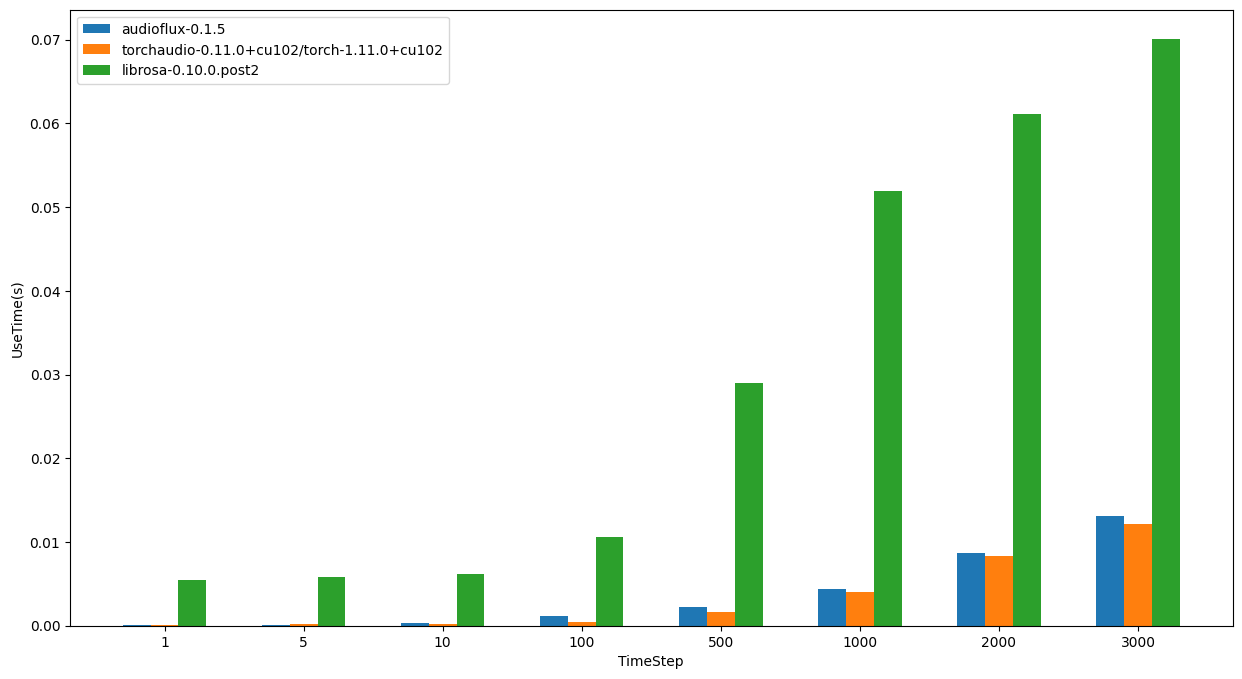
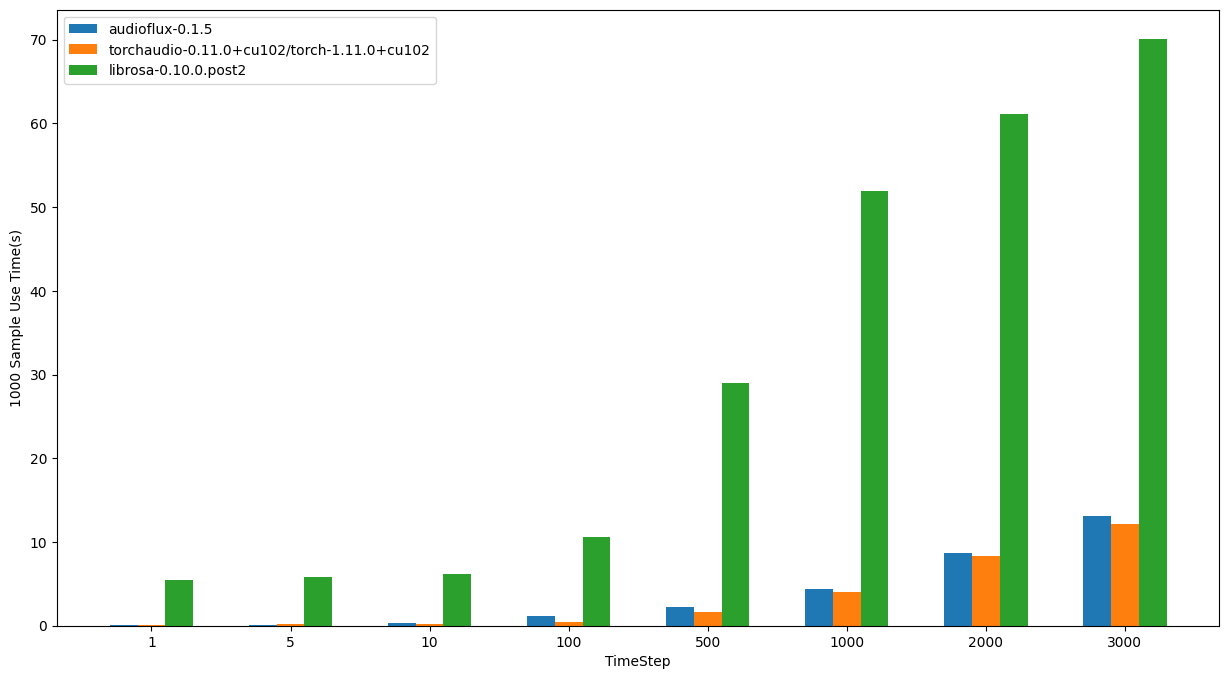
update doc

diff --git a/docs/benchmark.rst b/docs/benchmark.rst
@@ -1,9 +1,14 @@
 Benchmark
 =========
 
+Base benchmark
+--------------
+
+The time required to calculate the mel-spectrogram for 1000 samples according to a TimeStep of 1/5/10/100/500/1000/2000/3000.
+Where fft_len=2048, slide_len=512, sampling_rate=32000.
 
 Linux - AMD
------------
+^^^^^^^^^^^
 
     - OS: Ubuntu 20.04.4 LTS
     - CPU: AMD Ryzen Threadripper 3970X 32-Core Processor
@@ -13,26 +18,26 @@ Linux - AMD
 +----------+-------------+-------------+-------------+
 | TimeStep | audioflux   | torchaudio  | librosa     |
 +==========+=============+=============+=============+
-| 1        | 0.00004294s | 0.00007707s | 0.00241958s |
+| 1        | 0.04294s    | 0.07707s    | 2.41958s    |
 +----------+-------------+-------------+-------------+
-| 5        | 0.00014878s | 0.00105589s | 0.00352610s |
+| 5        | 0.14878s    | 1.05589s    | 3.52610s    |
 +----------+-------------+-------------+-------------+
-| 10       | 0.00018374s | 0.00083975s | 0.00346499s |
+| 10       | 0.18374s    | 0.83975s    | 3.46499s    |
 +----------+-------------+-------------+-------------+
-| 100      | 0.00067030s | 0.00061876s | 0.00663217s |
+| 100      | 0.67030s    | 0.61876s    | 6.63217s    |
 +----------+-------------+-------------+-------------+
-| 500      | 0.00094893s | 0.00129189s | 0.01645968s |
+| 500      | 0.94893s    | 1.29189s    | 16.45968s   |
 +----------+-------------+-------------+-------------+
-| 1000     | 0.00143854s | 0.00223126s | 0.02778358s |
+| 1000     | 1.43854s    | 2.23126s    | 27.78358s   |
 +----------+-------------+-------------+-------------+
-| 2000     | 0.00308714s | 0.00410869s | 0.04512714s |
+| 2000     | 3.08714s    | 4.10869s    | 45.12714s   |
 +----------+-------------+-------------+-------------+
-| 3000     | 0.00490343s | 0.00586299s | 0.05162876s |
+| 3000     | 4.90343s    | 5.86299s    | 51.62876s   |
 +----------+-------------+-------------+-------------+
 
 
 Linux - Intel
--------------
+^^^^^^^^^^^^^
 
     - OS: Ubuntu 20.04.4 LTS
     - CPU: Intel(R) Core(TM) i7-6850K CPU @ 3.60GHz
@@ -42,26 +47,26 @@ Linux - Intel
 +----------+-------------+-------------+-------------+
 | TimeStep | audioflux   | torchaudio  | librosa     |
 +==========+=============+=============+=============+
-| 1        | 0.00008106s | 0.00011043s | 0.00551295s |
+| 1        | 0.08106s    | 0.11043s    | 5.51295s    |
 +----------+-------------+-------------+-------------+
-| 5        | 0.00011654s | 0.00016005s | 0.00577631s |
+| 5        | 0.11654s    | 0.16005s    | 5.77631s    |
 +----------+-------------+-------------+-------------+
-| 10       | 0.00029173s | 0.00015352s | 0.00613656s |
+| 10       | 0.29173s    | 0.15352s    | 6.13656s    |
 +----------+-------------+-------------+-------------+
-| 100      | 0.00118150s | 0.00039958s | 0.01061641s |
+| 100      | 1.18150s    | 0.39958s    | 10.61641s   |
 +----------+-------------+-------------+-------------+
-| 500      | 0.00223883s | 0.00158323s | 0.02899823s |
+| 500      | 2.23883s    | 1.58323s    | 28.99823s   |
 +----------+-------------+-------------+-------------+
-| 1000     | 0.00442723s | 0.00398896s | 0.05197518s |
+| 1000     | 4.42723s    | 3.98896s    | 51.97518s   |
 +----------+-------------+-------------+-------------+
-| 2000     | 0.00873121s | 0.00828444s | 0.06113923s |
+| 2000     | 8.73121s    | 8.28444s    | 61.13923s   |
 +----------+-------------+-------------+-------------+
-| 3000     | 0.01307378s | 0.01214323s | 0.07006395s |
+| 3000     | 13.07378s   | 12.14323s   | 70.06395s   |
 +----------+-------------+-------------+-------------+
 
 
 macOS - Intel
------------
+^^^^^^^^^^^^^
 
     - OS: 12.6.1 (21G217)
     - CPU: 3.8GHz 8‑core 10th-generation Intel Core i7, Turbo Boost up to 5.0GHz
@@ -71,26 +76,26 @@ macOS - Intel
 +----------+-------------+-------------+-------------+
 | TimeStep | audioflux   | torchaudio  | librosa     |
 +==========+=============+=============+=============+
-| 1        | 0.00007605s | 0.00006451s | 0.00170139s |
+| 1        | 0.07605s    | 0.06451s    | 1.70139s    |
 +----------+-------------+-------------+-------------+
-| 5        | 0.00014946s | 0.00008464s | 0.00186964s |
+| 5        | 0.14946s    | 0.08464s    | 1.86964s    |
 +----------+-------------+-------------+-------------+
-| 10       | 0.00016641s | 0.00010762s | 0.00200865s |
+| 10       | 0.16641s    | 0.10762s    | 2.00865s    |
 +----------+-------------+-------------+-------------+
-| 100      | 0.00046902s | 0.00083551s | 0.00328890s |
+| 100      | 0.46902s    | 0.83551s    | 3.28890s    |
 +----------+-------------+-------------+-------------+
-| 500      | 0.00108860s | 0.00505824s | 0.00898265s |
+| 500      | 1.08860s    | 5.05824s    | 8.98265s    |
 +----------+-------------+-------------+-------------+
-| 1000     | 0.00264029s | 0.00978269s | 0.01824391s |
+| 1000     | 2.64029s    | 9.78269s    | 18.24391s   |
 +----------+-------------+-------------+-------------+
-| 2000     | 0.00540025s | 0.01508991s | 0.03368184s |
+| 2000     | 5.40025s    | 15.08991s   | 33.68184s   |
 +----------+-------------+-------------+-------------+
-| 3000     | 0.00792596s | 0.02484823s | 0.04735941s |
+| 3000     | 7.92596s    | 24.84823s   | 47.35941s   |
 +----------+-------------+-------------+-------------+
 
 
 macOS - M1
-----------
+^^^^^^^^^^
 
     - OS: 12.4 (21F79)
     - CPU: Apple M1
@@ -100,30 +105,27 @@ macOS - M1
 +----------+-------------+-------------+-------------+
 | TimeStep | audioflux   | torchaudio  | librosa     |
 +==========+=============+=============+=============+
-| 1        | 0.00006110s | 0.00006874s | 0.00222518s |
+| 1        | 0.06110s    | 0.06874s    | 2.22518s    |
 +----------+-------------+-------------+-------------+
-| 5        | 0.00023444s | 0.00007922s | 0.00255907s |
+| 5        | 0.23444s    | 0.07922s    | 2.55907s    |
 +----------+-------------+-------------+-------------+
-| 10       | 0.00020691s | 0.00011090s | 0.00271813s |
+| 10       | 0.20691s    | 0.11090s    | 2.71813s    |
 +----------+-------------+-------------+-------------+
-| 100      | 0.00068694s | 0.00063625s | 0.00474433s |
+| 100      | 0.68694s    | 0.63625s    | 4.74433s    |
 +----------+-------------+-------------+-------------+
-| 500      | 0.00147420s | 0.00337597s | 0.01383887s |
+| 500      | 1.47420s    | 3.37597s    | 13.83887s   |
 +----------+-------------+-------------+-------------+
-| 1000     | 0.00300926s | 0.00676275s | 0.02524646s |
+| 1000     | 3.00926s    | 6.76275s    | 25.24646s   |
 +----------+-------------+-------------+-------------+
-| 2000     | 0.00599781s | 0.01269573s | 0.04784029s |
+| 2000     | 5.99781s    | 12.69573s   | 47.84029s   |
 +----------+-------------+-------------+-------------+
-| 3000     | 0.00876306s | 0.01903391s | 0.06940428s |
+| 3000     | 8.76306s    | 19.03391s   | 69.40428s   |
 +----------+-------------+-------------+-------------+
-
-Based on the TimeStep of 1/5/10/100/500/1000/2000/3000 to calculate the time required for a Mel spectrogram.
-Where fft_len=2048, slide_len=512.
 
 
 Benchmark Script
-----------------
-[https://github.com/libAudioFlux/audioFlux/tree/master/benchmark](https://github.com/libAudioFlux/audioFlux/tree/master/benchmark)
+^^^^^^^^^^^^^^^^
+`https://github.com/libAudioFlux/audioFlux/tree/master/benchmark <https://github.com/libAudioFlux/audioFlux/tree/master/benchmark>`_
 
 Other Test
 ----------

diff --git a/docs/benchmark/performance_more.md b/docs/benchmark/performance_more.md
@@ -1,41 +1,45 @@
 ## More detailed performance testing
 
+### Base benchmark
+
+The time required to calculate the mel-spectrogram for 1000 samples according to a TimeStep of 1/5/10/100/500/1000/2000/3000.
+Where fft_len=2048, slide_len=512, sampling_rate=32000.
+
 #### Linux - AMD
 
 	- OS: Ubuntu 20.04.4 LTS
 	- CPU: AMD Ryzen Threadripper 3970X 32-Core Processor
-  
+
 <img src='../image/benchmark/linux_amd_1.png'>
 
-| TimeStep | audioflux   | torchaudio  | librosa     | 
-| -------- |  --------   |  ---------  |  ------     |
-| 1        | 0.00004294s | 0.00007707s | 0.00241958s |
-| 5        | 0.00014878s | 0.00105589s | 0.00352610s |
-| 10       | 0.00018374s | 0.00083975s | 0.00346499s |
-| 100      | 0.00067030s | 0.00061876s | 0.00663217s |
-| 500      | 0.00094893s | 0.00129189s | 0.01645968s |
-| 1000     | 0.00143854s | 0.00223126s | 0.02778358s |
-| 2000     | 0.00308714s | 0.00410869s | 0.04512714s |
-| 3000     | 0.00490343s | 0.00586299s | 0.05162876s |
+| TimeStep | audioflux | torchaudio | librosa   | 
+| -------- |  -------- |  --------- |  ------   |
+| 1        | 0.04294s  | 0.07707s   | 2.41958s  |
+| 5        | 0.14878s  | 1.05589s   | 3.52610s  |
+| 10       | 0.18374s  | 0.83975s   | 3.46499s  |
+| 100      | 0.67030s  | 0.61876s   | 6.63217s  |
+| 500      | 0.94893s  | 1.29189s   | 16.45968s |
+| 1000     | 1.43854s  | 2.23126s   | 27.78358s |
+| 2000     | 3.08714s  | 4.10869s   | 45.12714s |
+| 3000     | 4.90343s  | 5.86299s   | 51.62876s |
 
 #### Linux - Intel
 
 	- OS: Ubuntu 20.04.4 LTS
 	- CPU: Intel(R) Core(TM) i7-6850K CPU @ 3.60GHz
-      
-<img src='../image/benchmark/linux_intel_1.png'>
-   
-| TimeStep | audioflux   | torchaudio  | librosa     | 
-| -------- |  --------   |  ---------  |  ------     |
-| 1        | 0.00008106s | 0.00011043s | 0.00551295s |
-| 5        | 0.00011654s | 0.00016005s | 0.00577631s |
-| 10       | 0.00029173s | 0.00015352s | 0.00613656s |
-| 100      | 0.00118150s | 0.00039958s | 0.01061641s |
-| 500      | 0.00223883s | 0.00158323s | 0.02899823s |
-| 1000     | 0.00442723s | 0.00398896s | 0.05197518s |
-| 2000     | 0.00873121s | 0.00828444s | 0.06113923s |
-| 3000     | 0.01307378s | 0.01214323s | 0.07006395s |
 
+<img src='../image/benchmark/linux_intel_1.png'>
+
+| TimeStep | audioflux   | torchaudio | librosa   | 
+| -------- |  --------   | ---------- | -------   |
+| 1        | 0.08106s    | 0.11043s   | 5.51295s  |
+| 5        | 0.11654s    | 0.16005s   | 5.77631s  |
+| 10       | 0.29173s    | 0.15352s   | 6.13656s  |
+| 100      | 1.18150s    | 0.39958s   | 10.61641s |
+| 500      | 2.23883s    | 1.58323s   | 28.99823s |
+| 1000     | 4.42723s    | 3.98896s   | 51.97518s |
+| 2000     | 8.73121s    | 8.28444s   | 61.13923s |
+| 3000     | 13.07378s   | 12.14323s  | 70.06395s |
 
 #### macOS - Intel
 
@@ -43,44 +47,42 @@
 	- CPU: 3.8GHz 8‑core 10th-generation Intel Core i7, Turbo Boost up to 5.0GHz
 
 <img src='../image/benchmark/mac_x86_1.png'>
-        
-| TimeStep | audioflux   | torchaudio  | librosa     | 
-| -------- |  --------   |  ---------  |  ------     |
-| 1        | 0.00007605s | 0.00006451s | 0.00170139s |
-| 5        | 0.00014946s | 0.00008464s | 0.00186964s |
-| 10       | 0.00016641s | 0.00010762s | 0.00200865s |
-| 100      | 0.00046902s | 0.00083551s | 0.00328890s |
-| 500      | 0.00108860s | 0.00505824s | 0.00898265s |
-| 1000     | 0.00264029s | 0.00978269s | 0.01824391s |
-| 2000     | 0.00540025s | 0.01508991s | 0.03368184s |
-| 3000     | 0.00792596s | 0.02484823s | 0.04735941s |
+
+| TimeStep | audioflux | torchaudio | librosa   | 
+| -------- |  -------- |  --------- |  ------   |
+| 1        | 0.07605s  | 0.06451s   | 1.70139s  |
+| 5        | 0.14946s  | 0.08464s   | 1.86964s  |
+| 10       | 0.16641s  | 0.10762s   | 2.00865s  |
+| 100      | 0.46902s  | 0.83551s   | 3.28890s  |
+| 500      | 1.08860s  | 5.05824s   | 8.98265s  |
+| 1000     | 2.64029s  | 9.78269s   | 18.24391s |
+| 2000     | 5.40025s  | 15.08991s  | 33.68184s |
+| 3000     | 7.92596s  | 24.84823s  | 47.35941s |
 
 #### macOS - M1
-	
+
 	- OS: 12.4 (21F79)
 	- CPU: Apple M1
-    
+
 <img src='../image/benchmark/mac_arm_1.png'>
-        
-| TimeStep | audioflux   | torchaudio  | librosa     | 
-| -------- |  --------   |  ---------  |  ------     |
-| 1        | 0.00006110s | 0.00006874s | 0.00222518s |
-| 5        | 0.00023444s | 0.00007922s | 0.00255907s |
-| 10       | 0.00020691s | 0.00011090s | 0.00271813s |
-| 100      | 0.00068694s | 0.00063625s | 0.00474433s |
-| 500      | 0.00147420s | 0.00337597s | 0.01383887s |
-| 1000     | 0.00300926s | 0.00676275s | 0.02524646s |
-| 2000     | 0.00599781s | 0.01269573s | 0.04784029s |
-| 3000     | 0.00876306s | 0.01903391s | 0.06940428s |
 
-
-Based on the TimeStep of 1/5/10/100/500/1000/2000/3000 to calculate the time required for a Mel spectrogram.
-Where fft_len=2048, slide_len=512, sampling_rate=32000.
+| TimeStep | audioflux | torchaudio | librosa   | 
+| -------- |  -------- |  --------- |  ------   |
+| 1        | 0.06110s  | 0.06874s   | 2.22518s  |
+| 5        | 0.23444s  | 0.07922s   | 2.55907s  |
+| 10       | 0.20691s  | 0.11090s   | 2.71813s  |
+| 100      | 0.68694s  | 0.63625s   | 4.74433s  |
+| 500      | 1.47420s  | 3.37597s   | 13.83887s |
+| 1000     | 3.00926s  | 6.76275s   | 25.24646s |
+| 2000     | 5.99781s  | 12.69573s  | 47.84029s |
+| 3000     | 8.76306s  | 19.03391s  | 69.40428s |
 
 #### Benchmark Script
+
 [https://github.com/libAudioFlux/audioFlux/tree/master/benchmark](https://github.com/libAudioFlux/audioFlux/tree/master/benchmark)
 
 ------
+
 ### Other Test
 
 #### Server Performance
